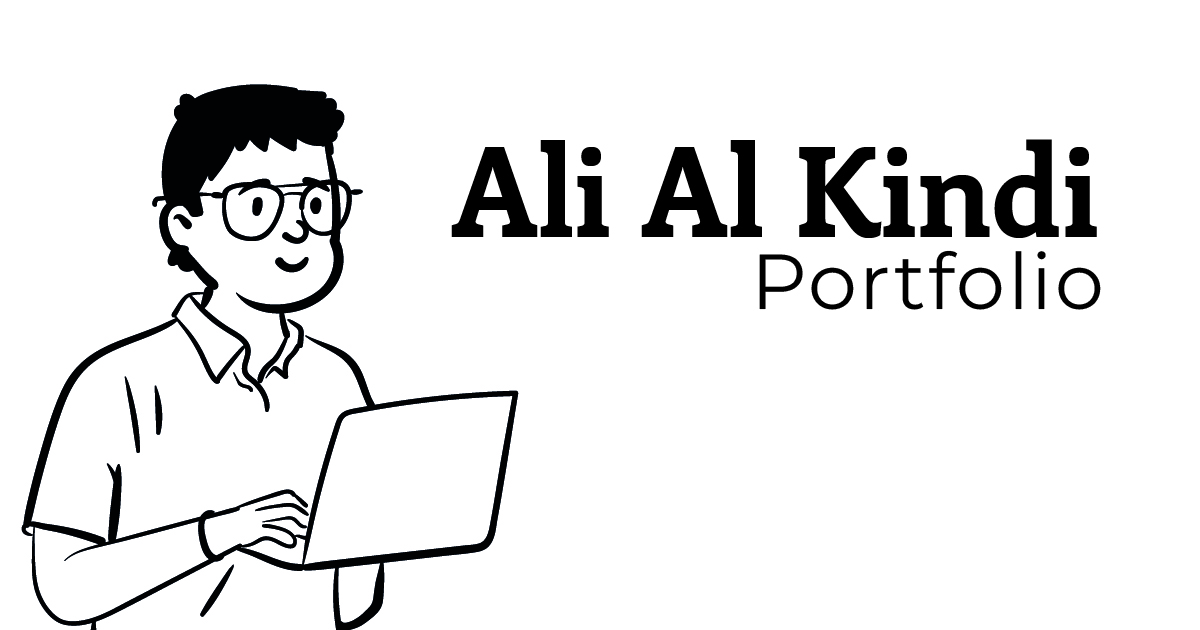
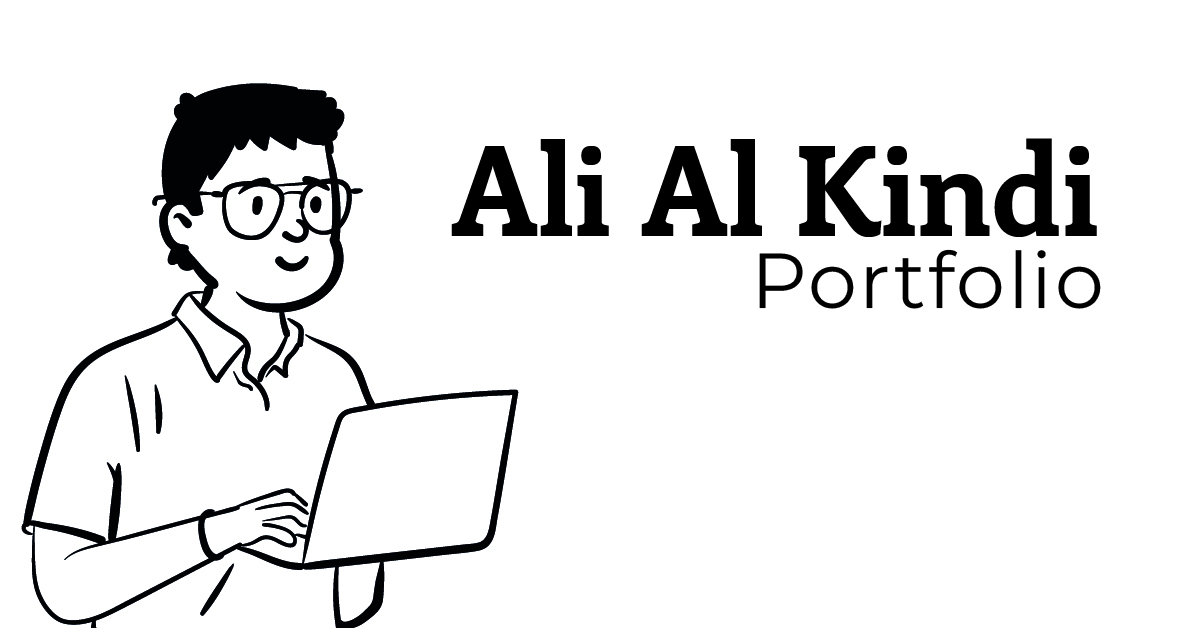
metadata

diff --git a/app/layout.js b/app/layout.js
@@ -27,7 +27,7 @@ export const metadata = {
       {
         url: "https://alialkindi.dev/data/metadata/og-image.jpg",
         width: 1200,
-        height: 630,
+        height: 627,
         alt: "Ali Al Kindi Portfolio",
         type: "image/jpeg",
         itemprop: "image",
